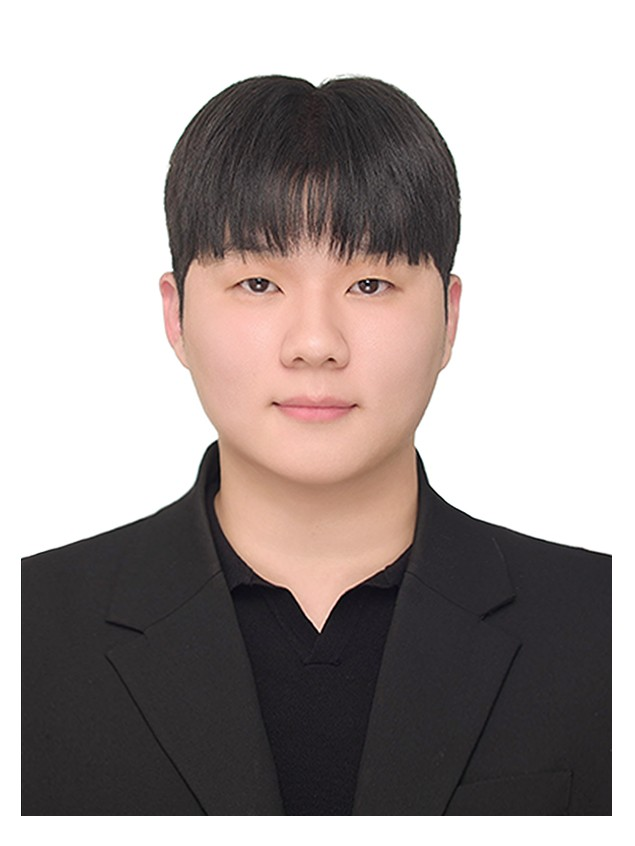
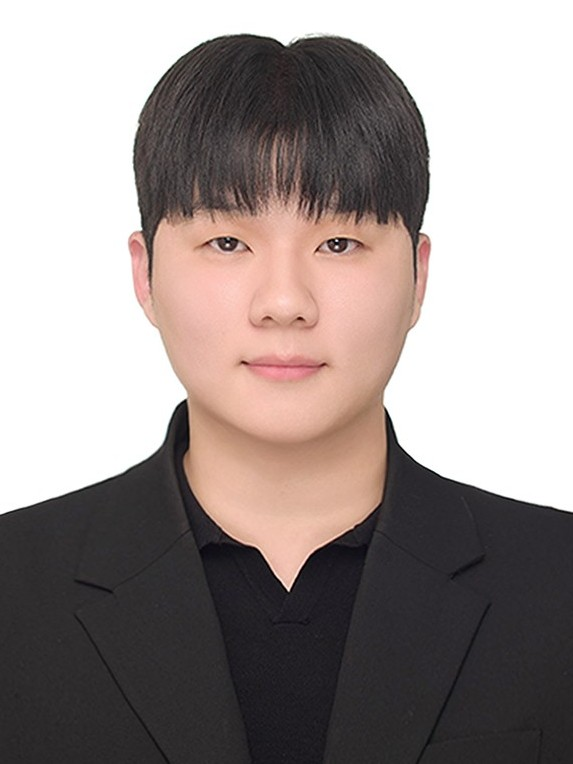
fix. 프로필 완성

diff --git a/src/tabs/home.tsx b/src/tabs/home.tsx
@@ -363,7 +363,7 @@ export default function Home() {
               {
                 name: "김정찬",
                 role: "Team Member",
-                img: "../team/chan.jpg",
+                img: "../team/chan.png",
               },
               {
                 name: "김진석",
